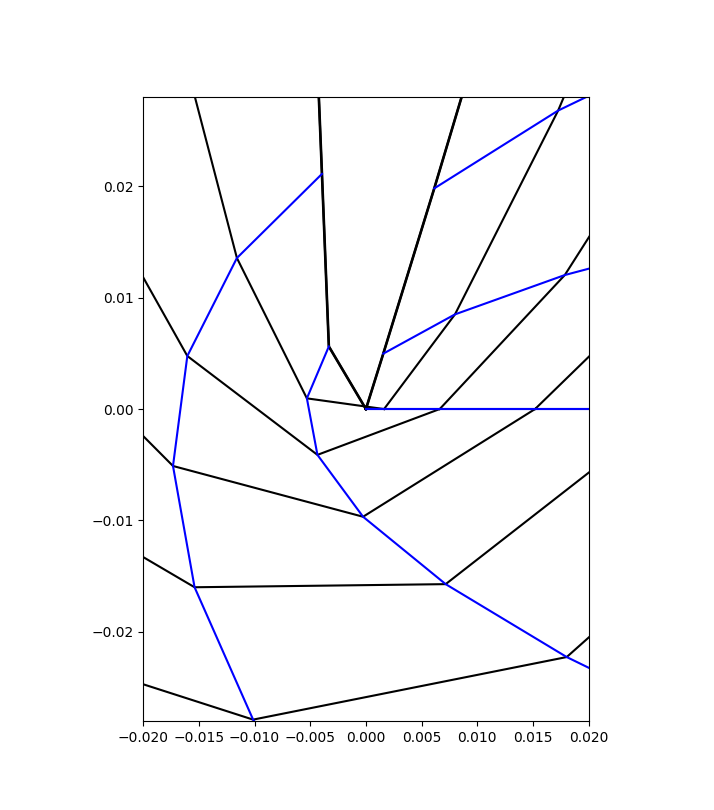
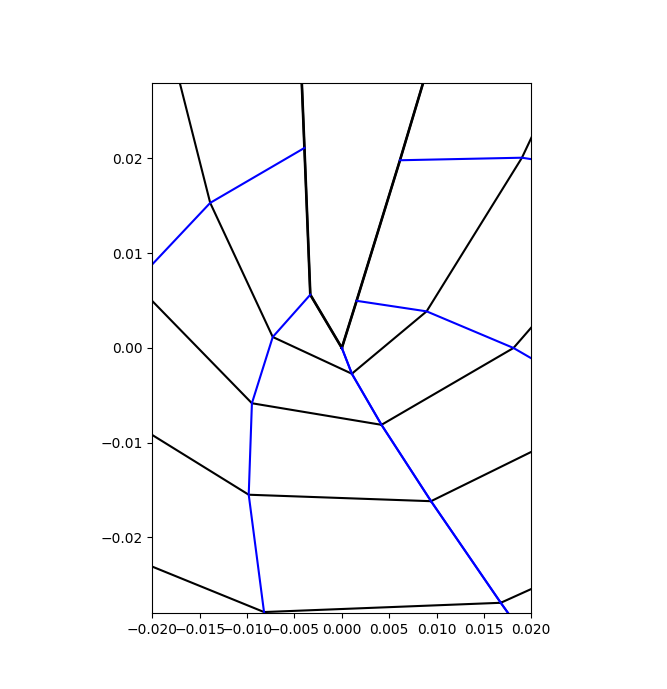
se termina alcancede mallas O

diff --git a/Escrito/tesis.tex b/Escrito/tesis.tex
@@ -3260,13 +3260,13 @@
         La tabla \ref{tabla_o_naca_4415} presenta las características de la
         malla, así como los casos límite de aplicabilidad. La figura
         \ref{fig:naca4415} muestra la malla generada para un ángulo de ataque
-        $\alpha = 0 \si{\degree}$. A su vez, la figura \ref{fig:naca4415_40}
-        muestra un acercamiento al perfil para un ángulo de ataque de
-        $\alpha = 40\si{\degree}$, condición en la cual todavía se muestra una malla dentro
+        $\alpha = 0 \si{\degree}$. A su vez, la figura \ref{fig:naca4415_90}
+        muestra un acercamiento al perfil para un ángulo de ataque
+        $\alpha = 90\si{\degree}$, condición en la cual todavía se muestra una malla dentro
         del rango de usabilidad. Mientras que la figura \ref{fig:naca4415_90}
-        muestra un acercamiento al borde de salida del perfil con un ángulo de
-        ataque de 90\si{\degree}, e ilustra una malla de mala calidad, pues se
-        alcanza a apreciar un cruce entre las líneas que la forman.
+        muestra un acercamiento al perfil con un ángulo de ataque $\alpha =
+        -90\si{\degree}$, e ilustra una malla de mala calidad en el borde de
+        salida.
 
     \begin{table}[htbp!]
     \begin{center}
@@ -3298,16 +3298,16 @@
         Método & SOR
         \\\hline
 
-        Ángulo máximo & 75\si{\degree}
+        Ángulo máximo & 110\si{\degree}
         \\ \hline
 
-        Ángulo máximo recomendado & 60\si{\degree}
+        Ángulo máximo recomendado & 90\si{\degree}
         \\ \hline
 
-        Ángulo mínimo & -75\si{\degree}
+        Ángulo mínimo & -50\si{\degree}
         \\ \hline
 
-        Ángulo mínimo recomendado & -60\si{\degree}
+        Ángulo mínimo recomendado & -30\si{\degree}
         \\ \hline
         \end{tabular}
         \caption{Caracetísticas de malla O con perfil NACA 4415}
@@ -3328,21 +3328,21 @@
     % relación (1:1.4) [x:y]
     \begin{figure}[htbp!]
         \centering
-        \subfigure[40\si{\degree} Vista del perfil]{\label{fig:naca4415_40_far}\includegraphics[keepaspectratio, width=87mm]{./Imagenes/naca4415_40_far}}
-        \subfigure[40\si{\degree} Vista del borde de salida]{\label{fig:naca4415_40_close}\includegraphics[keepaspectratio, width=87mm]{./Imagenes/naca4415_40_close}}
-        \caption[Malla tipo O con perfil NACA4415 a 40\si{\degree}]{Malla tipo O con perfil NACA4415
-                        con ángulo de ataque 40\si{\degree}. Acercamiento al perfil y al borde de salida}
-        \label{fig:naca4415_40}
+        \subfigure[90\si{\degree} Vista del perfil]{\label{fig:naca4415_90_far}\includegraphics[keepaspectratio, width=87mm]{./Imagenes/naca4415_90_far}}
+        \subfigure[90\si{\degree} Vista del borde de salida]{\label{fig:naca4415_90_close}\includegraphics[keepaspectratio, width=87mm]{./Imagenes/naca4415_90_close}}
+        \caption[Malla tipo O con perfil NACA4415 a 90\si{\degree}]{Malla tipo O con perfil NACA4415
+                        con ángulo de ataque 90\si{\degree}. Acercamiento al perfil y al borde de salida}
+        \label{fig:naca4415_90}
     \end{figure}
 
     % relación (1:1.4) [x:y]
     \begin{figure}[htbp!]
         \centering
-        \subfigure[90\si{\degree} Vista del perfil]{\label{fig:naca4415_90_far}\includegraphics[keepaspectratio, width=87mm]{./Imagenes/naca4415_90_far}}
-        \subfigure[90\si{\degree} Vista del borde de salida]{\label{fig:naca4415_90_close}\includegraphics[keepaspectratio, width=87mm]{./Imagenes/naca4415_90_close}}
-        \caption[Malla tipo O con perfil NACA4415 a 40\si{\degree}]{Malla tipo O con perfil NACA4415
-                        con ángulo de ataque 40\si{\degree}. Acercamiento al perfil y al borde de salida}
-        \label{fig:naca4415_90}
+        \subfigure[-90\si{\degree} Vista del perfil]{\label{fig:naca4415_-90_far}\includegraphics[keepaspectratio, width=87mm]{./Imagenes/naca4415_-90_far}}
+        \subfigure[-90\si{\degree} Vista del borde de salida]{\label{fig:naca4415_-90_close}\includegraphics[keepaspectratio, width=87mm]{./Imagenes/naca4415_-90_close}}
+        \caption[Malla tipo O con perfil NACA4415 a 90\si{\degree}]{Malla tipo O con perfil NACA4415
+                        con ángulo de ataque 90\si{\degree}. Acercamiento al perfil y al borde de salida}
+        \label{fig:naca4415_-90}
     \end{figure}
 
     \paragraph*{}
@@ -3352,7 +3352,19 @@
         del perfil se mantiene constante a 0\si{\degree}, mientras que el ángulo
         de deflexión del flap se va variando. La tabla
         \ref{tabla_o_naca_4415_flap} presenta las  caraterísticas de esta
-        configuración.
+        configuración. La figura \ref{fig:naca4415_flap} presenta la
+        malla generada, tanto una vista completa de la misma, así como un
+        acercamiento en el cual se logra apreciar tanto el perfil como el flap,
+        el cual tiene un ángulo de deflexión igual a 0\si{\degree}. Por su parte
+        la figura \ref{fig:naca4415_flap_40} muestra una malla generada bajo los
+        mismos parámetros y una deflexión del flap igual a 40\si{\degree}, la
+        cual cumple en términos generales con las características de una malla
+        de calidad. En contraste, la figura \ref{fig:naca4415_flap_-20} muestra
+        una malla para el caso en el cual el flap tiene un angulo de deflexión
+        igual a $-20\si{\degree}$, dicha malla resulta inservible para el
+        análisis, ya que en la vista de acercamiento al borde de ataque del flap
+        se observa incluso un cruce entre las líneas que unen a los nodos en esa
+        región.
 
     \begin{table}[htbp!]
     \begin{center}
@@ -3390,10 +3402,10 @@
         Método & SOR
         \\\hline
 
-        Ángulo máximo & 85\si{\degree}
+        Ángulo máximo & 45\si{\degree}
         \\ \hline
 
-        Ángulo máximo recomendado & 60\si{\degree}
+        Ángulo máximo recomendado & 40\si{\degree}
         \\ \hline
 
         Ángulo mínimo & -10\si{\degree}
@@ -3407,6 +3419,7 @@
     \end{center}
     \end{table}
 
+    % relación (1:1) y (2:1) [x:y]
     \begin{figure}[htbp!]
         \centering
         \subfigure[Vista completa]{\label{fig:naca4415_flap_far}\includegraphics[keepaspectratio, width=87mm]{./Imagenes/naca4415_flap_far}}
@@ -3416,18 +3429,33 @@
         \label{fig:naca4415_flap}
     \end{figure}
 
+    % relación (2:1) [x:y]
     \begin{figure}[htbp!]
         \centering
-        \subfigure[Flap a 60\si{\degree}]{\label{fig:naca4415_flap_60}\includegraphics[keepaspectratio, width=87mm]{./Imagenes/naca4415_flap_60}}
-        \subfigure[Acercamiento a perfil]{\label{fig:naca4415_flap_-25}\includegraphics[keepaspectratio, width=87mm]{./Imagenes/naca4415_flap_-25}}
+        \subfigure[Flap a 40\si{\degree}]{\label{fig:naca4415_flap_40}\includegraphics[keepaspectratio, width=87mm]{./Imagenes/naca4415_flap_40}}
+        \subfigure[Acercamiento a borde de salida de perfil y borde de ataque de
+        flap]{\label{fig:naca4415_flap_40_airfoil}\includegraphics[keepaspectratio, width=87mm]{./Imagenes/naca4415_flap_40_airfoil}}
+        \subfigure[Acercamiento a borde de salida de flap]{\label{fig:naca4415_flap_40_flap}\includegraphics[keepaspectratio, width=87mm]{./Imagenes/naca4415_flap_40_flap}}
+
         \caption[Malla tipo O con perfily flap NACA4415]{Malla tipo O con perfil
-             y flap NACA4415, ambos con ángulo de ataque 0\si{\degree}}
-        \label{fig:naca4415_flap_60_-25}
+             y flap NACA4415. El perfil tiene un ángulo de ataque de
+             0\si{\degree} y el flap un ángulo de deflexión de 40\si{\degree}}
+        \label{fig:naca4415_flap_40}
     \end{figure}
 
-    % \begin{figure}
-    % \inputpgf{./Imagenes}{test.pgf}
-    % \end{figure}
+    % relación (2:1) [x:y]
+    \begin{figure}[htbp!]
+        \centering
+        \subfigure[Acercamiento a perfil y flap]{\label{fig:naca4415_flap_-20}\includegraphics[keepaspectratio, width=87mm]{./Imagenes/naca4415_flap_-20}}
+        \subfigure[Acercamiento a borde de salida de perfil y borde de ataque de
+        flap]{\label{fig:naca4415_flap_-20_airfoil}\includegraphics[keepaspectratio, width=87mm]{./Imagenes/naca4415_flap_-20_airfoil}}
+        \subfigure[Acercamiento a borde de salida de flap]{\label{fig:naca4415_flap_-20_flap}\includegraphics[keepaspectratio, width=87mm]{./Imagenes/naca4415_flap_-20_flap}}
+
+        \caption[Malla tipo O con perfil y flap NACA4415 a -20\si{\degree}]{Malla tipo O con perfil
+             y flap NACA4415. El perfil tiene un ángulo de ataque de
+             0\si{\degree} y el flap un ángulo de deflexión de -20\si{\degree}}
+        \label{fig:naca4415_flap_-20}
+    \end{figure}
 
 %
 %
